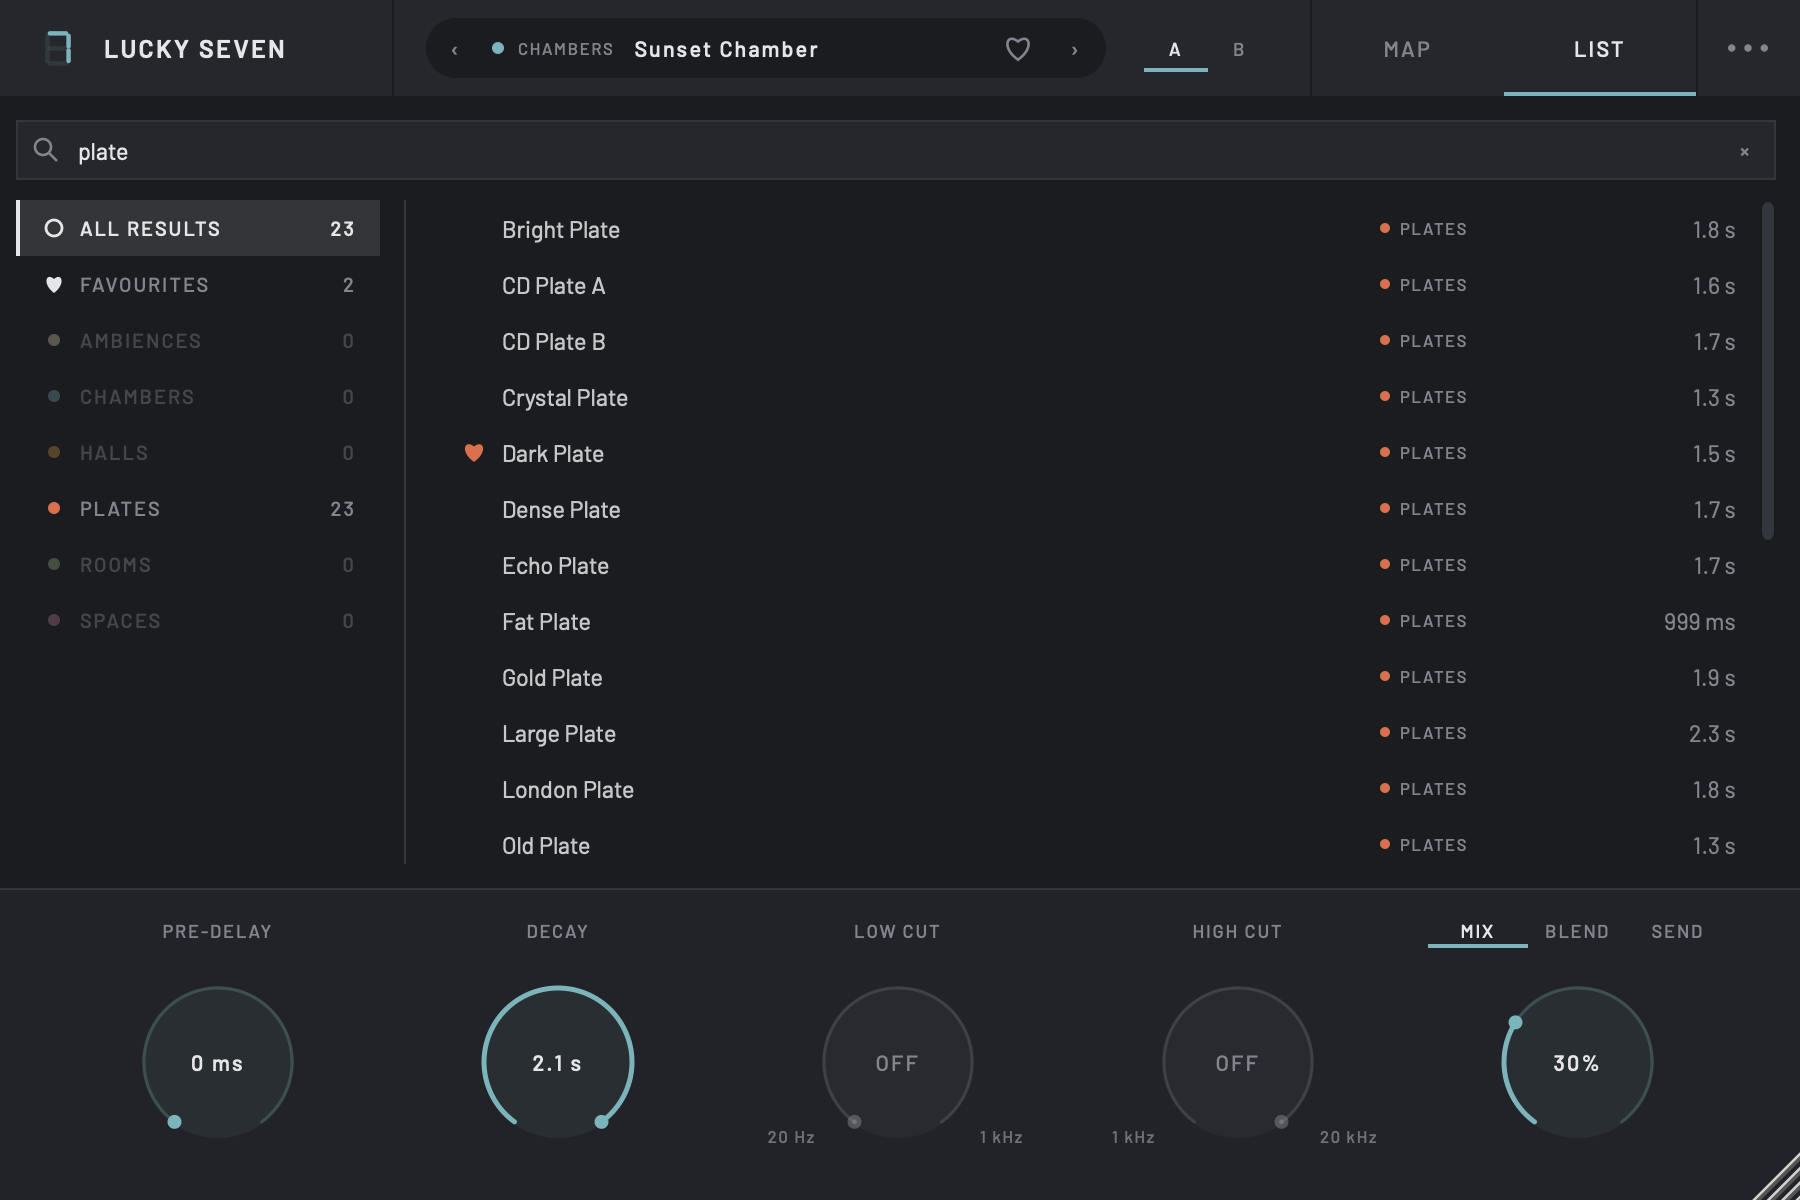
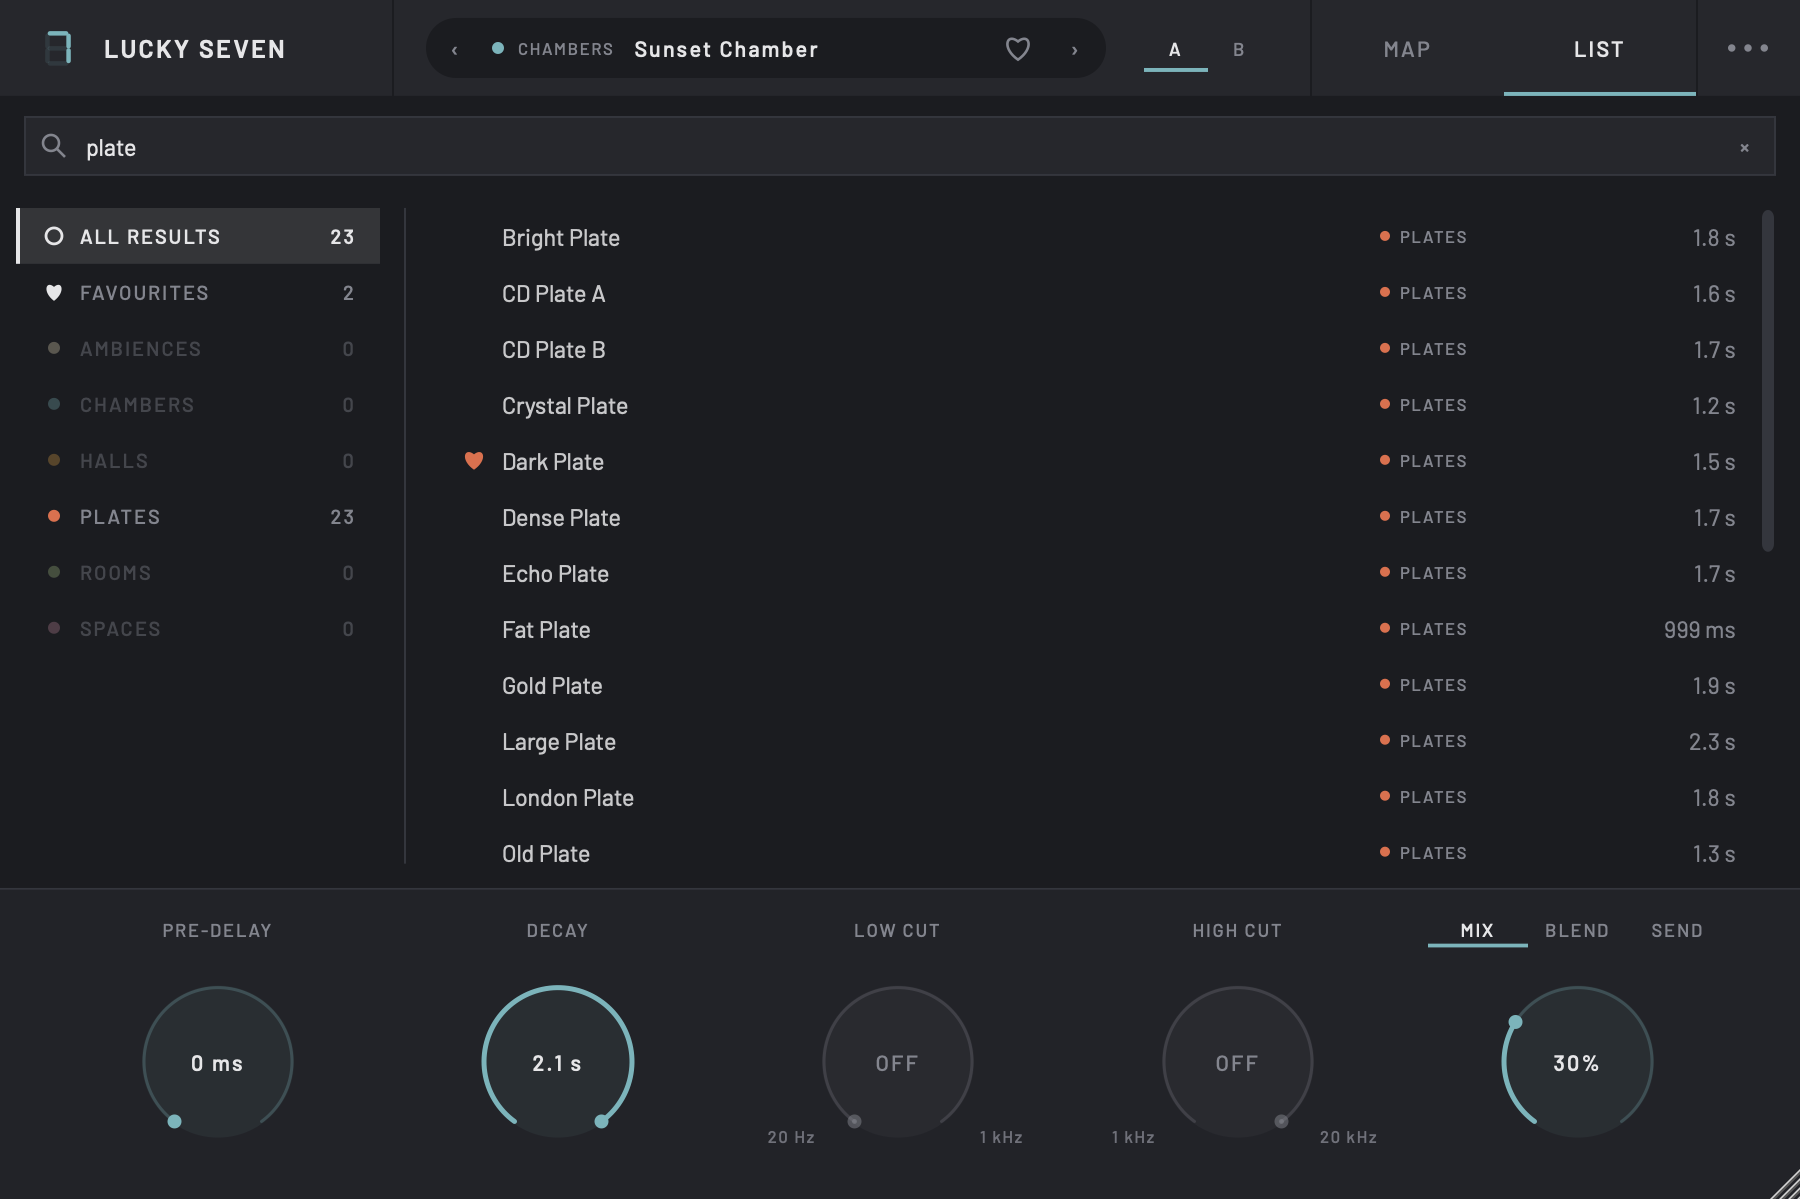
docs(site): refresh copy and screenshots

diff --git a/docs/index.html b/docs/index.html
@@ -4,9 +4,9 @@
 <meta charset="utf-8">
 <meta name="viewport" content="width=device-width, initial-scale=1">
 <title>Lucky Seven</title>
-<meta name="description" content="Lucky Seven: a free convolution reverb for macOS. Find the right reverb in seconds: pick a space on the map, shape the tail, blend it in. Works with any impulse-response library; ready for Samplicity's free Bricasti M7 set.">
+<meta name="description" content="Lucky Seven: a free convolution reverb for macOS. Find the right reverb in seconds: pick a reverb from the map, shape the tail, blend it in. Works with any impulse-response library; ready for Samplicity's free Bricasti M7 set.">
 <meta property="og:title" content="Lucky Seven">
-<meta property="og:description" content="Find the right reverb in seconds. Pick a space on the map, shape the tail, blend it in. Free for macOS, VST3 and AU.">
+<meta property="og:description" content="Find the right reverb in seconds. Pick a reverb from the map, shape the tail, blend it in. Free for macOS, VST3 and AU.">
 <meta property="og:image" content="https://tomdmaguire.github.io/lucky-seven/assets/map.png">
 <meta property="og:type" content="website">
 <meta name="twitter:card" content="summary_large_image">
@@ -143,7 +143,7 @@
       <div>
         <span class="label">Free convolution reverb for macOS &middot; VST3 &amp; AU</span>
         <h1>Find the right reverb in seconds.</h1>
-        <p><strong>Pick a space on the map, shape the tail, blend it in.</strong> Lucky Seven works with any impulse-response library and comes ready for Samplicity's free Bricasti M7 set: one click and you have 134 world-class reverbs.</p>
+        <p><strong>Pick a reverb from the map, shape the tail, blend it in.</strong> Lucky Seven works with any impulse-response library and comes ready for Samplicity's free Bricasti M7 set: one click and you have 134 world-class reverbs.</p>
         <div class="actions">
           <a class="button primary" href="https://github.com/tomdmaguire/lucky-seven/releases/latest/download/Lucky-Seven.pkg">Download for Mac</a>
           <a class="button secondary" href="#install">How to install</a>
@@ -223,10 +223,10 @@
   <section id="ableton">
     <div class="wrap">
       <span class="label">Using Ableton Live?</span>
-      <h2>Use Ableton's Convolution Reverb IRs.</h2>
+      <h2>Use it with Ableton's Convolution Reverb pack.</h2>
       <div class="split">
         <div class="split-text">
-          <p>If you have Ableton's <strong>Convolution Reverb</strong> pack, its 480-odd impulse responses (real places, halls, plates, springs, drum rooms and some genuinely strange spaces) work in Lucky Seven too.</p>
+          <p>If you have Ableton's <strong>Convolution Reverb</strong> pack, its 480-odd impulse responses (real places, halls, plates, springs, drum rooms and some genuinely strange spaces) load straight into Lucky Seven.</p>
           <p>In Lucky Seven, open the <strong>&middot;&middot;&middot;</strong> menu, choose <strong>IR folders &rarr; Add a folder&hellip;</strong> and pick:</p>
           <div class="command">
             <pre id="ableton-path">~/Music/Ableton/Factory Packs/Convolution Reverb/IRs</pre>
@@ -293,8 +293,8 @@ xattr -dr com.apple.quarantine ~/Library/Audio/Plug-Ins/Components/"Lucky Seven.
       <h2>Notes</h2>
       <div class="notes">
         <div>
-          <h3>Sample rates</h3>
-          <p>Lucky Seven is happiest at 44.1 or 48 kHz. At 88.2 or 96 kHz it uses about three times the CPU, so give it a buffer of 256 samples or more.</p>
+          <h3>Light on CPU</h3>
+          <p>The long tail runs on a background thread, so each instance uses about 1% of a core with no spikes, even at a 64-sample buffer with 30-second IRs. Instances go idle when their input is silent.</p>
         </div>
         <div>
           <h3>Formats</h3>
